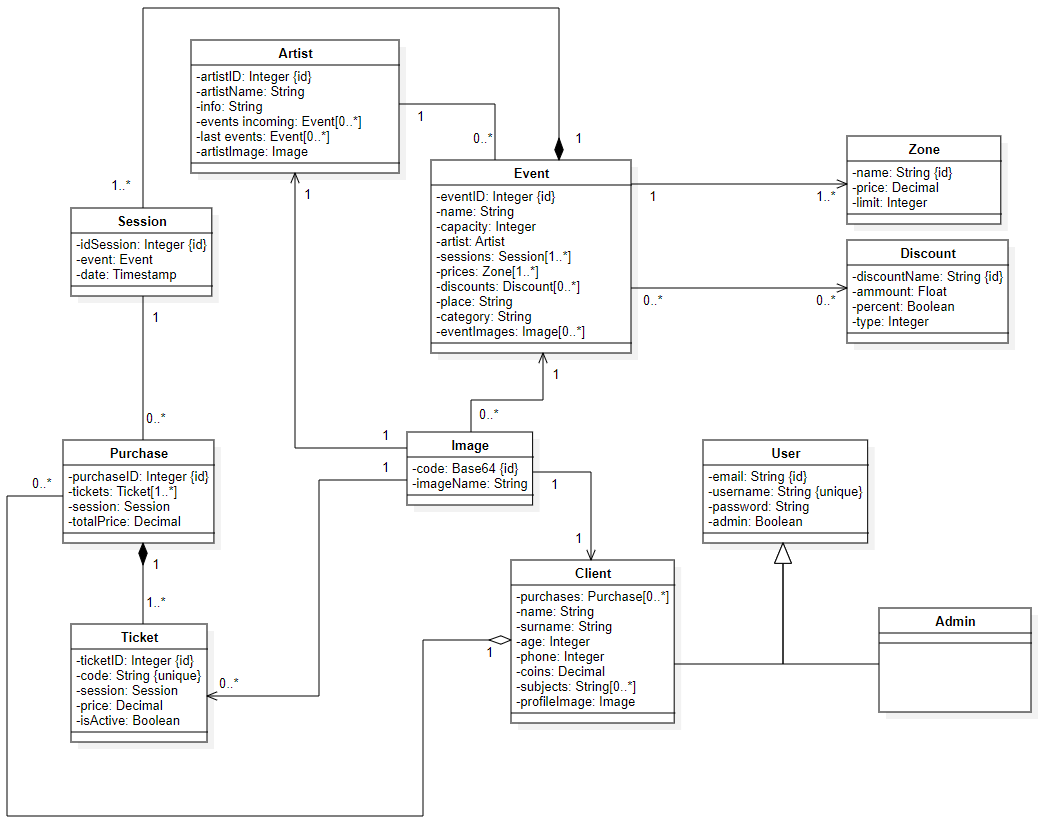
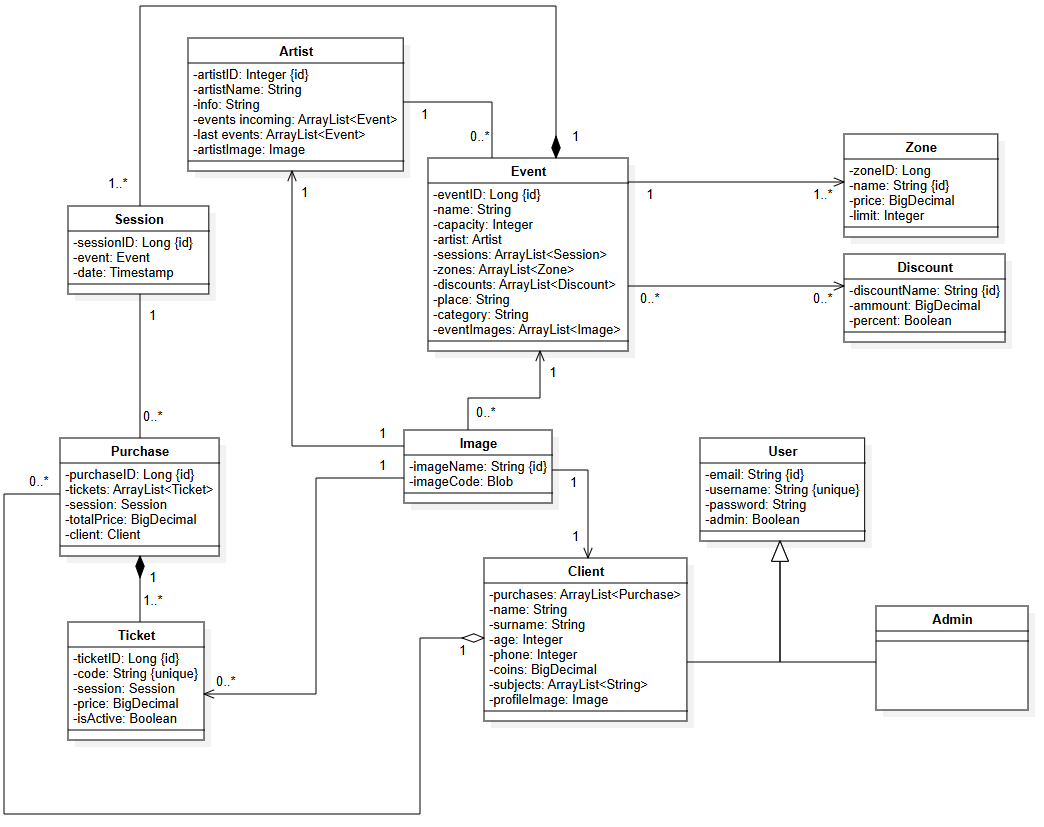
modifying the database (diagram and entities)

diff --git a/backend/tickethub/src/main/java/es/tickethub/tickethub/entities/Event.java b/backend/tickethub/src/main/java/es/tickethub/tickethub/entities/Event.java
@@ -1,5 +1,6 @@
 package es.tickethub.tickethub.entities;
 
+import java.util.ArrayList;
 import java.util.List;
 
 import jakarta.persistence.CascadeType;
@@ -21,8 +22,9 @@ public class Event {
 
     /* All the columns of the entity Event cannot be nullable except discounts*/
     
+    /* For autogenerate the id we have to use GenerationType.IDENTITY instead GenerationType.AUTO*/
     @Id
-    @GeneratedValue(strategy = GenerationType.AUTO)
+    @GeneratedValue(strategy = GenerationType.IDENTITY)
     private Long eventID;
 
     @Column(nullable = false)
@@ -38,15 +40,17 @@ public class Event {
 
     /* This represents that the entity Session is related with Event in a way that one Event can have many Sessions associated*/
     @OneToMany(cascade = CascadeType.ALL, mappedBy = "event", orphanRemoval = true)
-    private List<Session> sessions;
+    @Column(nullable = false)
+    private List<Session> sessions = new ArrayList<>();
 
     @OneToMany(cascade = CascadeType.ALL, orphanRemoval = true)
-    @JoinColumn(name = "event_id")
-    private List<Zone> zones;
+    @JoinColumn(name = "event_id", nullable = false)
+    private List<Zone> zones = new ArrayList<>();
 
-    @OneToMany(cascade = CascadeType.ALL, orphanRemoval = true)
+    /* Here we don't have to put orphanRemoval because the discounts can be associated to more events*/
+    @OneToMany(cascade = CascadeType.ALL)
     @JoinColumn(name = "event_id")
-    private List<Discount> discounts;
+    private List<Discount> discounts = new ArrayList<>();
 
     @Column(nullable = false)
     private String place;
@@ -56,25 +60,29 @@ public class Event {
 
     @OneToMany(cascade = CascadeType.ALL, orphanRemoval = true)
     @JoinColumn(name = "event_id", nullable = false)
-    private List<Image> eventImages;
+    private List<Image> eventImages = new ArrayList<>();
 
     public Event() {
         /* The constructor for the database*/
     }
 
-    // Constructor of the class
-    public Event(Long eventID, String name, Integer capacity, Artist artist,
-        List<Session> sessions, List<Zone> zones, List<Discount> discounts, String place, String category, List<Image> eventImages) {
+    // Constructor of the class (we have to put all the parameters that can not be null in the database)
+    public Event(String name, Integer capacity, Artist artist,
+        List<Session> sessions, List<Zone> zones, String place, String category, List<Image> eventImages) {
 
-        this.eventID = eventID;
         this.name = name;
         this.capacity = capacity;
         this.artist = artist;
-        this.sessions = sessions;
-        this.zones = zones;
-        this.discounts = discounts;
+        if (sessions != null) {
+            this.sessions = sessions;
+        }
+        if (zones != null) {
+            this.zones = zones;
+        }
         this.place = place;
         this.category = category;
-        this.eventImages = eventImages;
+        if (eventImages != null) {
+            this.eventImages = eventImages;
+        }
     }
 }

diff --git a/backend/tickethub/src/main/java/es/tickethub/tickethub/entities/Purchase.java b/backend/tickethub/src/main/java/es/tickethub/tickethub/entities/Purchase.java
@@ -5,6 +5,7 @@ import java.util.ArrayList;
 import java.util.List;
 
 import jakarta.persistence.CascadeType;
+import jakarta.persistence.Column;
 import jakarta.persistence.Entity;
 import jakarta.persistence.GeneratedValue;
 import jakarta.persistence.GenerationType;
@@ -21,13 +22,15 @@ import lombok.Setter;
 public class Purchase {
     
     @Id
-    @GeneratedValue(strategy = GenerationType.AUTO)
+    @GeneratedValue(strategy = GenerationType.IDENTITY)
     private Long purchaseID;
 
     /* References the ticket entity to make the effect that if the purchase is deleted the tickets too
-        The join column is to represent a OneToMany relation. You have to put the name of the ID of the other Entity*/
-    @OneToMany(cascade = CascadeType.ALL)
-    @JoinColumn(name = "purchase_id")
+        The join column is to represent a OneToMany relation. You have to put the name of the ID of the other Entity
+        The orphanRemoval makes that if an object of the entity is deleted the objects associated to it will be deleted too*/
+
+    @OneToMany(cascade = CascadeType.ALL, orphanRemoval = true)
+    @JoinColumn(name = "purchase_id", nullable = false)
     private List<Ticket> tickets = new ArrayList<>();
 
     /* Needed to associate many purchases to one session*/
@@ -37,10 +40,11 @@ public class Purchase {
 
     /* Needed to associate the mapping at the client entity to the purchases*/
     @ManyToOne
-    @JoinColumn(name = "client_id")
+    @JoinColumn(name = "client_id", nullable = false)
     private Client client;
 
     /* To initialize the purchase total price to 0*/
+    @Column(nullable = false, precision = 8, scale = 2)
     private BigDecimal totalPrice = BigDecimal.ZERO;
 
     public Purchase() {
@@ -48,14 +52,14 @@ public class Purchase {
     }
 
     // Constructor of the class
-    public Purchase(Long purchaseID, List<Ticket> tickets, Session session) {
-        this.purchaseID = purchaseID;
-        this.tickets = tickets;
-        this.session = session;
-        if (tickets != null) {  /* If there are tickets for each ticket the price is added to the purchase total price*/
+    public Purchase(List<Ticket> tickets, Session session, Client client) {
+        if (tickets != null) {      /* If there are tickets we associate them to the attribute and for each ticket the price is added to the purchase total price*/
+            this.tickets = tickets;
             for (Ticket ticket : tickets) {
                 this.totalPrice = this.totalPrice.add(ticket.getPrice());
             }
         }
+        this.session = session;
+        this.client = client;
     }
 }

diff --git a/backend/tickethub/src/main/java/es/tickethub/tickethub/entities/Ticket.java b/backend/tickethub/src/main/java/es/tickethub/tickethub/entities/Ticket.java
@@ -4,6 +4,8 @@ import java.math.BigDecimal;
 
 import jakarta.persistence.Column;
 import jakarta.persistence.Entity;
+import jakarta.persistence.GeneratedValue;
+import jakarta.persistence.GenerationType;
 import jakarta.persistence.Id;
 import jakarta.persistence.JoinColumn;
 import jakarta.persistence.ManyToOne;
@@ -17,8 +19,10 @@ import lombok.Setter;
 public class Ticket {
 
     @Id
-    private int ticketID;
+    @GeneratedValue(strategy = GenerationType.IDENTITY)
+    private Long ticketID;
 
+    /* This code will be to generate an unique QR code for the ticket to be scanned*/
     @Column(unique = true, nullable = false)
     private String code;
 
@@ -26,7 +30,7 @@ public class Ticket {
     @JoinColumn(name = "session_id", nullable = false)
     private Session session;
 
-    @Column(nullable = false)
+    @Column(nullable = false, precision = 8, scale = 2)
     private BigDecimal price;
 
     @Column(nullable = false)
@@ -37,8 +41,7 @@ public class Ticket {
     }
 
     // Constructor of the class
-    public Ticket(int ticketID, String code, Session session, BigDecimal price, Boolean isActive) {
-        this.ticketID = ticketID;
+    public Ticket(String code, Session session, BigDecimal price, Boolean isActive) {
         this.code = code;
         this.session = session;
         this.price = price;

diff --git a/backend/tickethub/src/main/java/es/tickethub/tickethub/entities/Discount.java b/backend/tickethub/src/main/java/es/tickethub/tickethub/entities/Discount.java
@@ -4,8 +4,6 @@ import java.math.BigDecimal;
 
 import jakarta.persistence.Column;
 import jakarta.persistence.Entity;
-import jakarta.persistence.GeneratedValue;
-import jakarta.persistence.GenerationType;
 import jakarta.persistence.Id;
 import lombok.Getter;
 import lombok.Setter;
@@ -16,20 +14,21 @@ import lombok.Setter;
 public class Discount {
 
     @Id
-    @GeneratedValue(strategy = GenerationType.AUTO)
-    private Long id;
+    private String discountName;
 
-    @Column(unique = true, nullable = false)
-    private String code;
+    @Column(nullable = false)
+    private BigDecimal ammount; /* To indicate the ammount to be discounted to the original price*/
 
+    /* precision is for the total of the numbers, scale for the number of decimals*/
     @Column(nullable = false, precision = 5, scale = 2)
     private BigDecimal percentage;
 
     public Discount() {}    //Constructor for the Database
 
     // Constructor of the class
-    public Discount(String code, BigDecimal percentage) {
-        this.code = code;
+    public Discount(String discountName, BigDecimal ammount, BigDecimal percentage) {
+        this.discountName = discountName;
+        this.ammount = ammount;
         this.percentage = percentage;
     }
 }

diff --git a/backend/tickethub/src/main/java/es/tickethub/tickethub/entities/Artist.java b/backend/tickethub/src/main/java/es/tickethub/tickethub/entities/Artist.java
@@ -1,5 +1,6 @@
 package es.tickethub.tickethub.entities;
 
+import java.util.ArrayList;
 import java.util.List;
 
 import jakarta.persistence.Column;
@@ -20,7 +21,7 @@ public class Artist {
     /* The artist columns can be nullable except the ID and the artistName*/
     
     @Id
-    @GeneratedValue(strategy = GenerationType.AUTO)
+    @GeneratedValue(strategy = GenerationType.IDENTITY)
     private Long artistID;
 
     @Column(nullable = false)
@@ -29,10 +30,10 @@ public class Artist {
     private String info;
 
     @OneToMany
-    private List<Event> eventsIncoming;
+    private List<Event> eventsIncoming = new ArrayList<>();
     
     @OneToMany
-    private List<Event> lastEvents;
+    private List<Event> lastEvents = new ArrayList<>();
 
     @OneToOne
     private Image artistImage;
@@ -42,8 +43,7 @@ public class Artist {
     }
 
     // Constructor of the class
-    public Artist(Long artistID, String artistName) {
-        this.artistID = artistID;
+    public Artist(String artistName) {
         this.artistName = artistName;
     }
 

diff --git a/backend/tickethub/src/main/java/es/tickethub/tickethub/entities/Session.java b/backend/tickethub/src/main/java/es/tickethub/tickethub/entities/Session.java
@@ -20,7 +20,7 @@ public class Session {
     /* All the columns can't be null*/
 
     @Id
-    @GeneratedValue(strategy = GenerationType.AUTO)
+    @GeneratedValue(strategy = GenerationType.IDENTITY)
     private Long sessionID;
 
     @ManyToOne
@@ -35,8 +35,7 @@ public class Session {
     }
 
     // Constructor of the class
-    public Session(Long sessionID, Event event, Timestamp date) {
-        this.sessionID = sessionID;
+    public Session(Event event, Timestamp date) {
         this.event = event;
         this.date = date;
     }

diff --git a/backend/tickethub/src/main/java/es/tickethub/tickethub/entities/User.java b/backend/tickethub/src/main/java/es/tickethub/tickethub/entities/User.java
@@ -14,10 +14,11 @@ public class User {
     @Id
     private String email;
 
-    @Column(unique = true, nullable = false)
+    /* The username and password can be null because when a User is created for a purchase he only has the email*/
+    @Column(unique = true)
     private String username;
 
-    @Column(nullable = false)
+    @Column
     private String password;
 
     @Column(nullable = false)

diff --git a/backend/tickethub/src/main/java/es/tickethub/tickethub/entities/Zone.java b/backend/tickethub/src/main/java/es/tickethub/tickethub/entities/Zone.java
@@ -16,7 +16,7 @@ import lombok.Setter;
 public class Zone {
 
     @Id
-    @GeneratedValue(strategy = GenerationType.AUTO)
+    @GeneratedValue(strategy = GenerationType.IDENTITY)
     private Long id;
 
     @Column(nullable = false)
